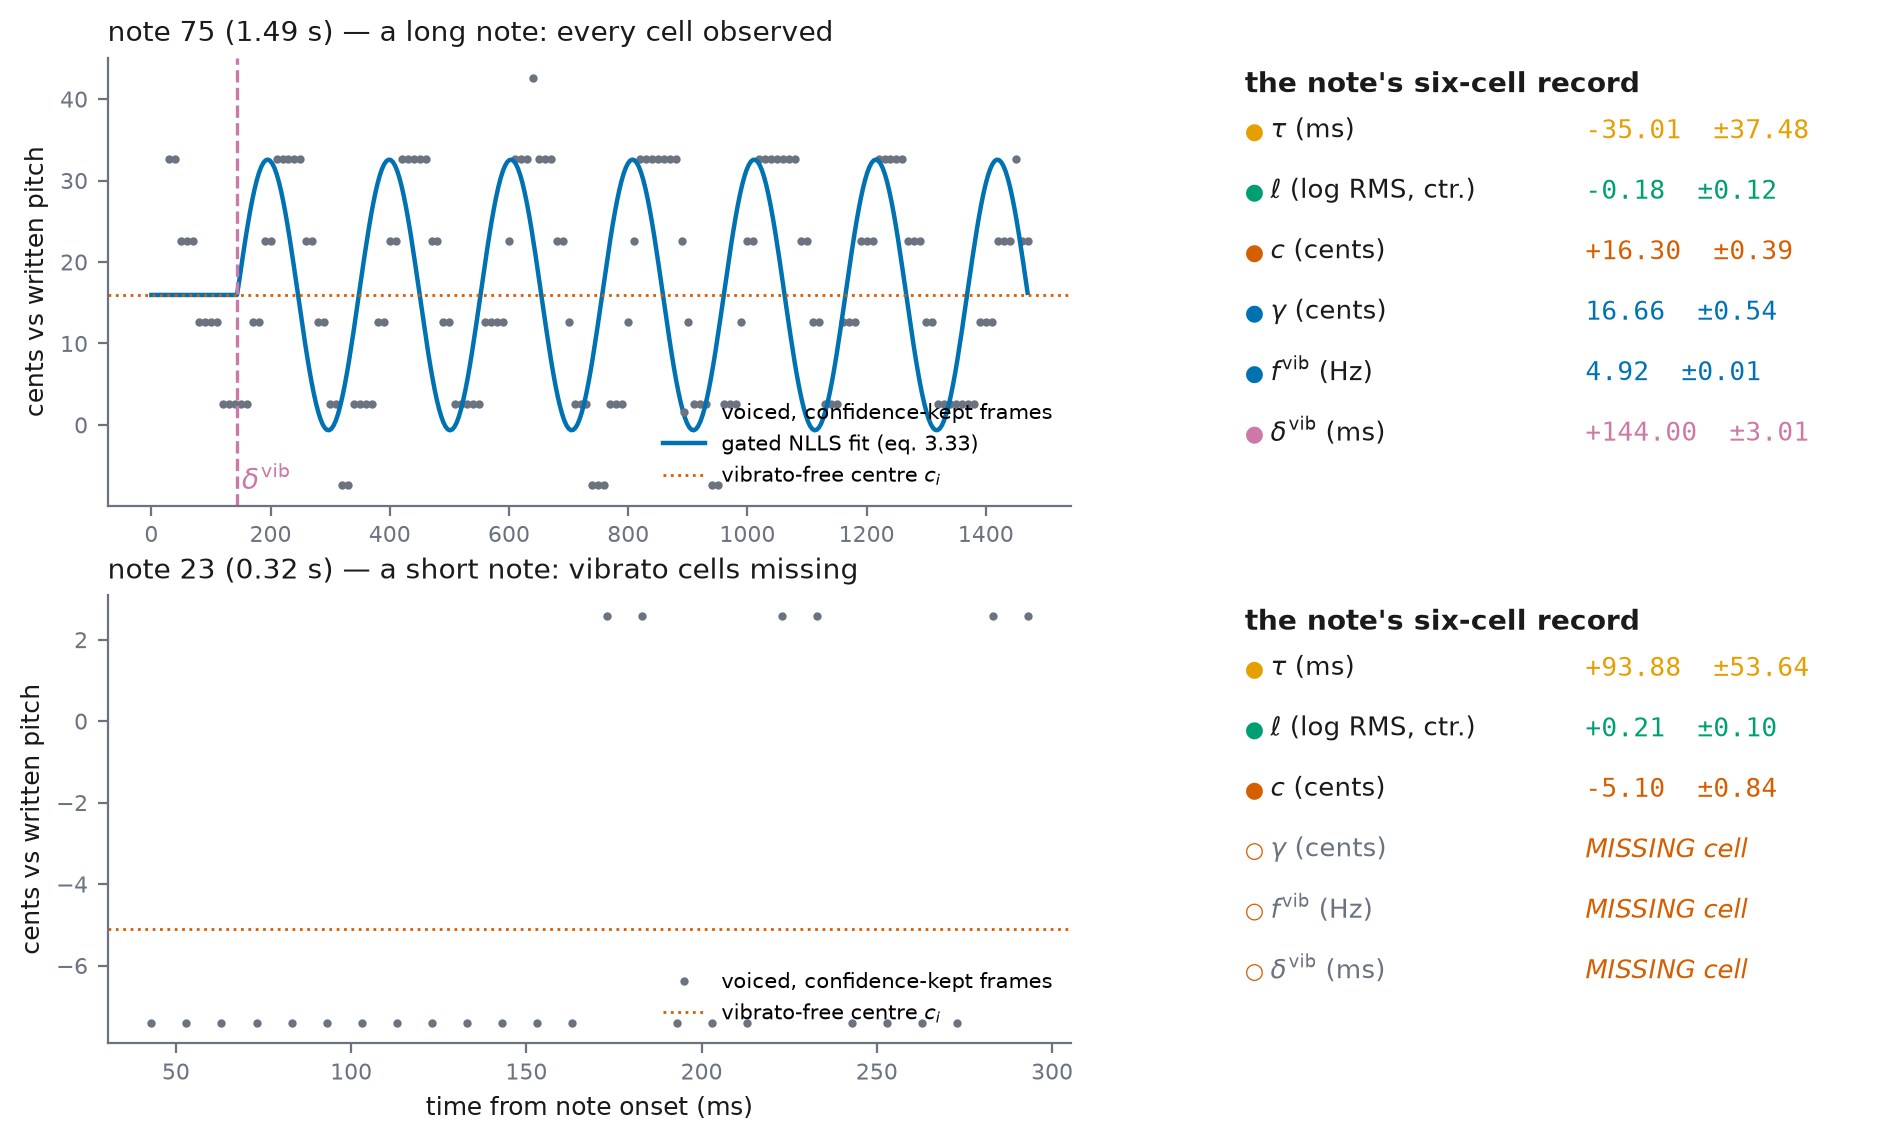
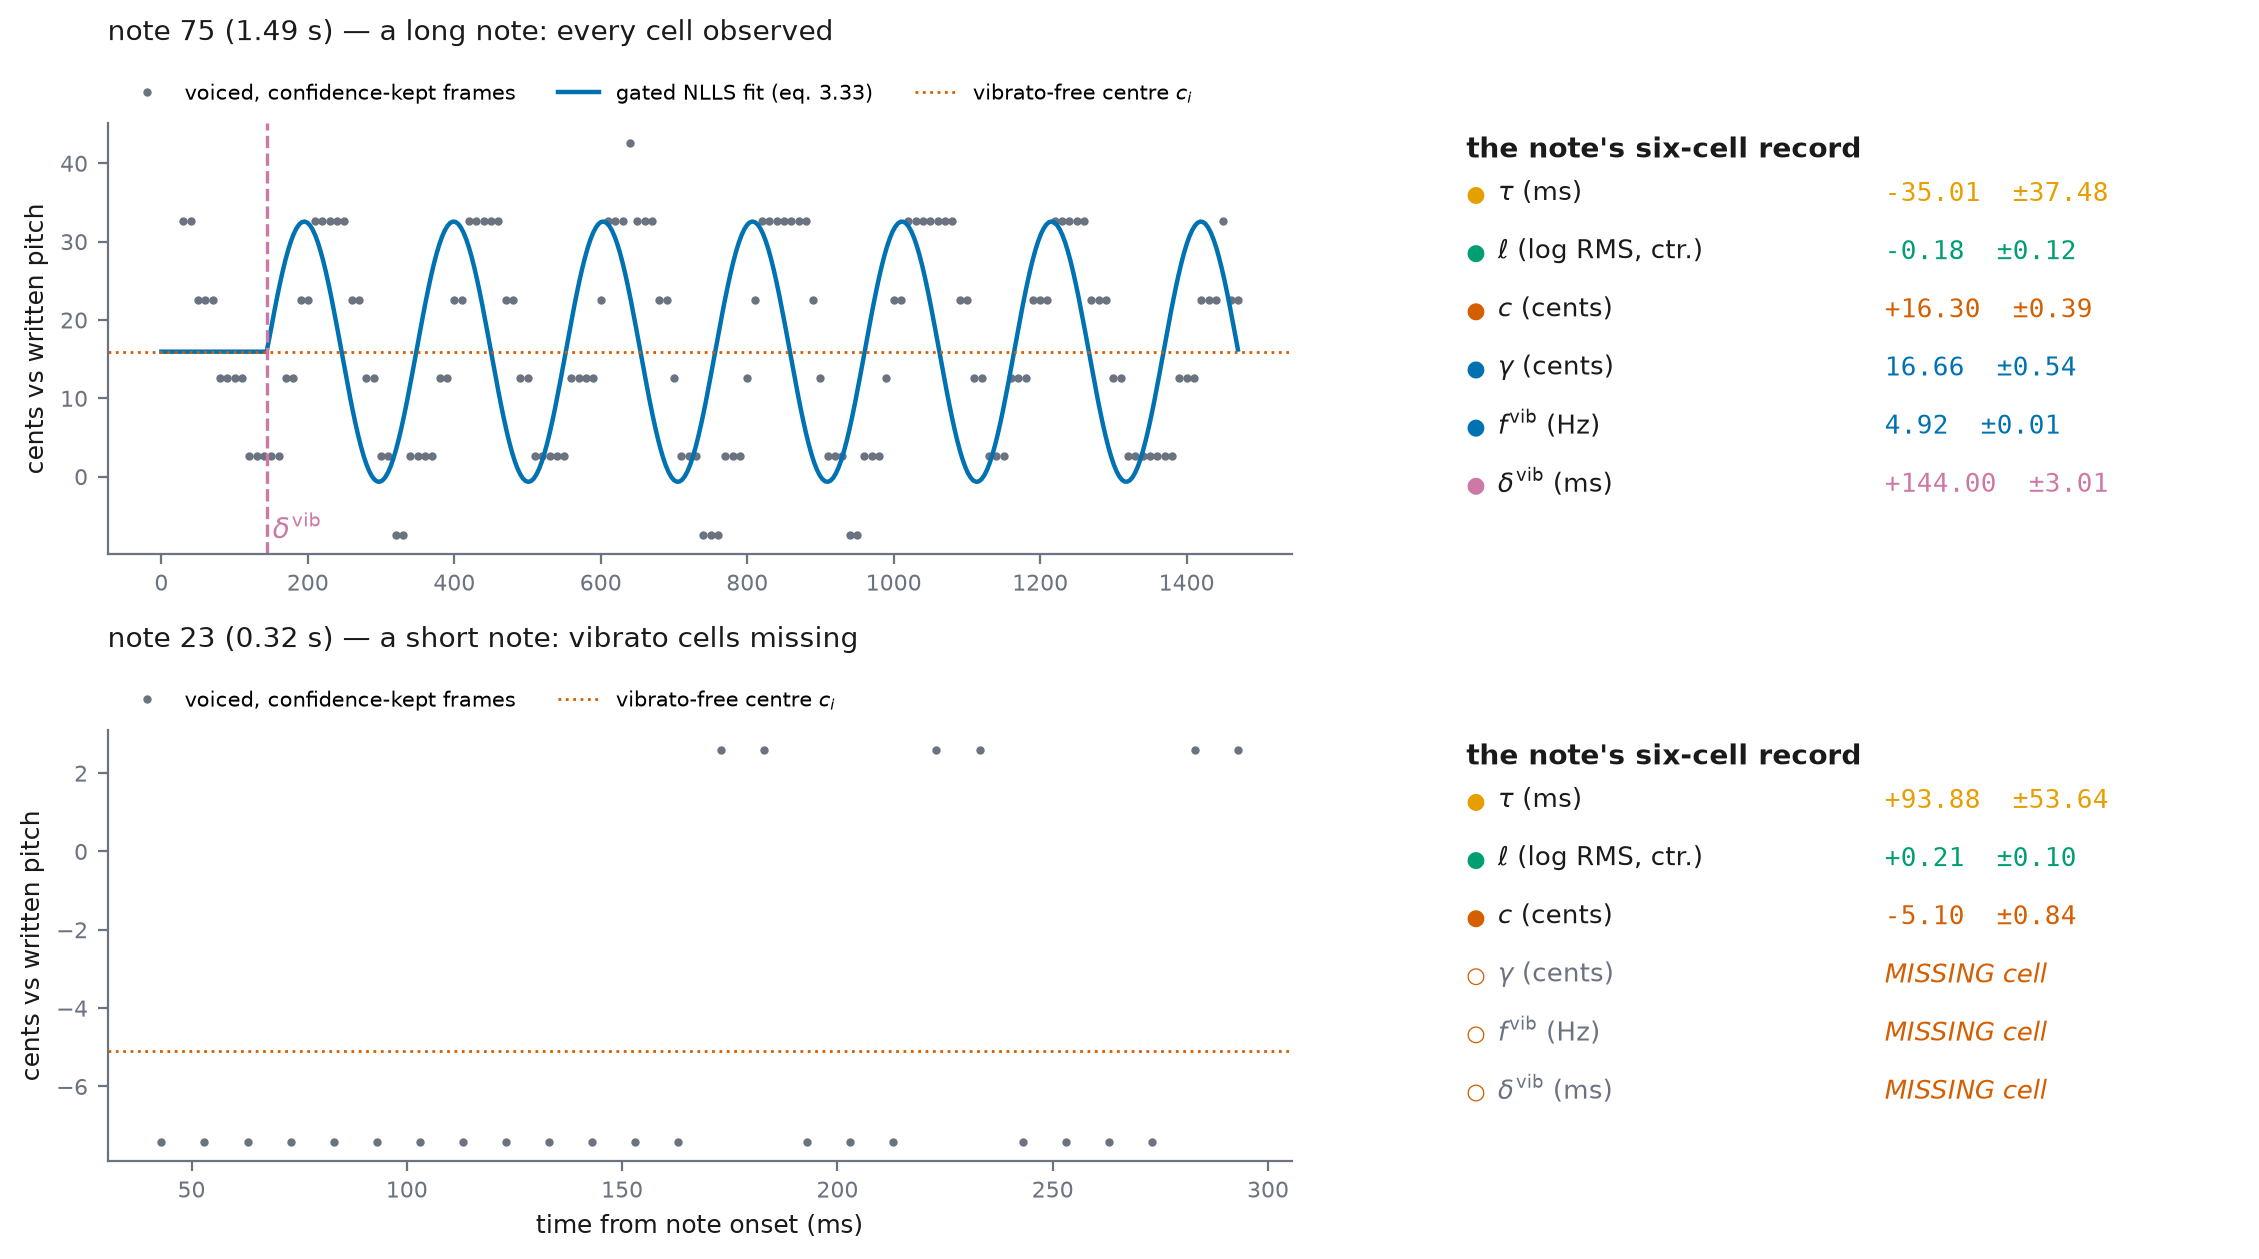
Fig 3.2: intended look restored — legends above panels, layout call recovered
Ray asked whether 3.2/3.3 looked as intended. 3.3: yes. 3.2: no — my
title-stripping sed had also deleted the fig.tight_layout() line, and
both panel legends sat inside the data area colliding with frame dots.
Fixed to the house style (legends in their own row above each panel,
titles padded, tight_layout restored). Recompiled: 57 pp clean; all
prep-sheet printed-page anchors verified unmoved (S3.9 17-23, Figs
20/21/25, results 22-23, S5.3 30). Fresh PDF installed.

diff --git a/scripts/make_phase2_datapoint.py b/scripts/make_phase2_datapoint.py
@@ -61,10 +61,11 @@ for row, (i, tag) in enumerate([(A, "a long note: every cell observed"),
                label="vibrato-free centre $c_i$")
     ax.set_ylabel("cents vs written pitch", fontsize=9, color=INK)
     ax.set_title(f"note {i} ({'%.2f' % notes['duration'][i]} s) — {tag}",
-                 fontsize=10, color=INK, loc="left")
+                 fontsize=10, color=INK, loc="left", pad=30)
     if row == 1:
         ax.set_xlabel("time from note onset (ms)", fontsize=9, color=INK)
-    ax.legend(frameon=False, fontsize=7.5, loc="lower right")
+    ax.legend(frameon=False, fontsize=7.5, ncol=3, loc="lower left",
+              bbox_to_anchor=(0.0, 1.0))
     for s_ in ("top", "right"):
         ax.spines[s_].set_visible(False)
     for s_ in ("left", "bottom"):
@@ -103,6 +104,7 @@ for row, (i, tag) in enumerate([(A, "a long note: every cell observed"),
                      style="italic")
             axc.text(0.02, y, "○", fontsize=8, color=VERM)
         y -= 0.135
+fig.tight_layout()
 out = "docs/thesis/figures/phase2_datapoint_dev.png"
 fig.savefig(out, bbox_inches="tight")
 print("wrote", out, "| notes", A, B)
